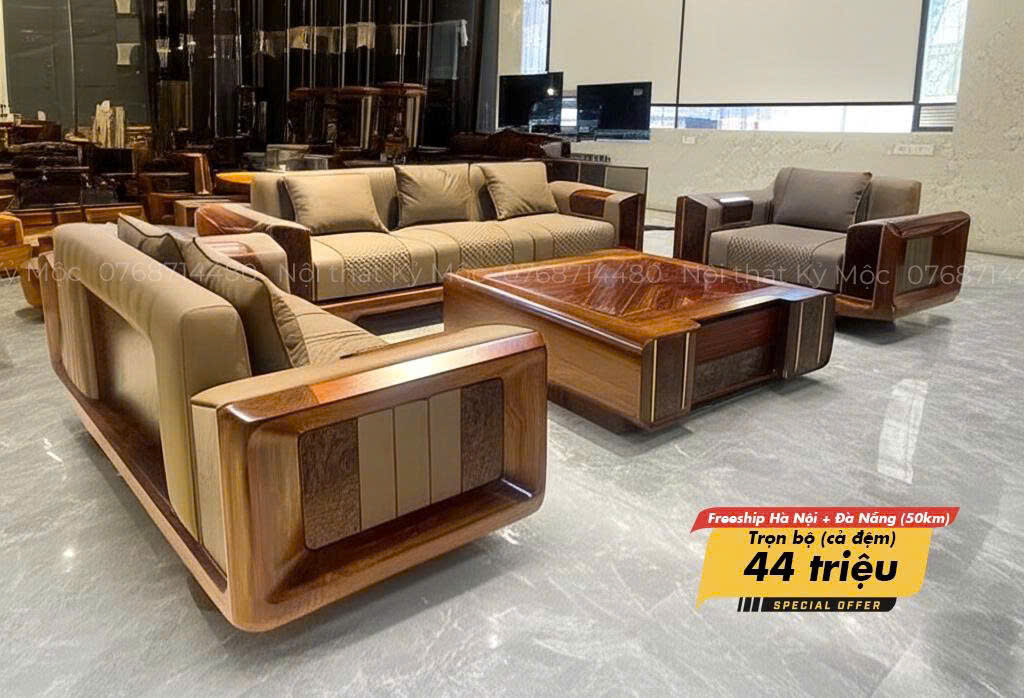
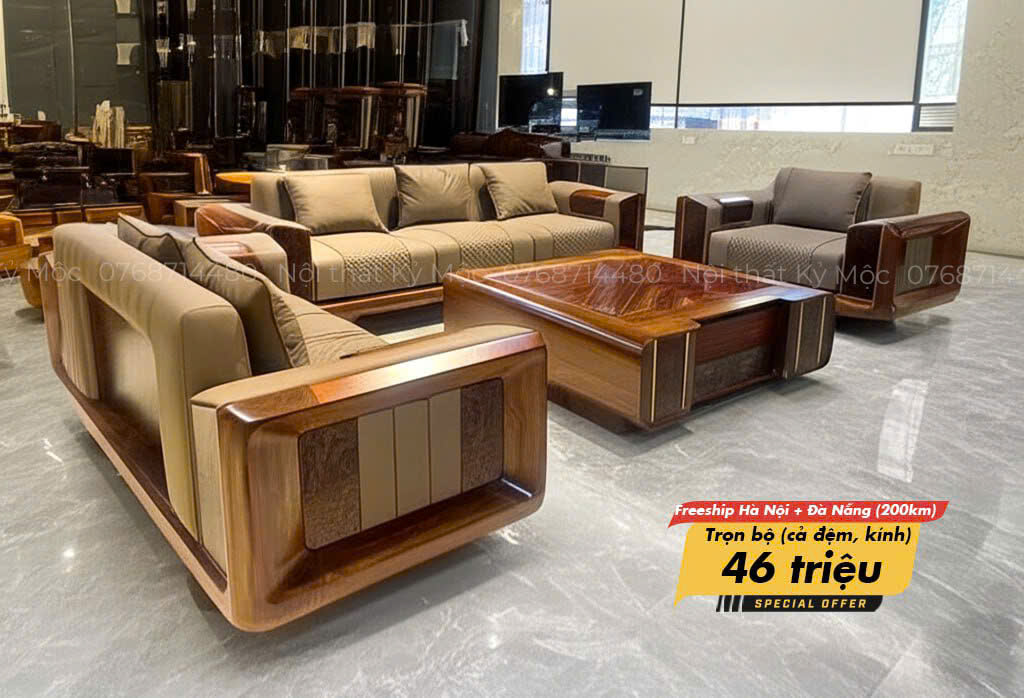
update bg

diff --git a/index.html b/index.html
@@ -87,7 +87,7 @@
     <!-- Hero Section -->
     <section id="hero" class="hero section dark-background">
 
-      <img src="assets/img/bg_1.jpg" alt="" data-aos="fade-in">
+      <img src="assets/img/bg_1_86.jpg" alt="" data-aos="fade-in">
 
       <div class="container d-flex flex-column align-items-center">
         <h2 data-aos="fade-up" data-aos-delay="100">NGHỆ. KỶ. MỘC</h2>
